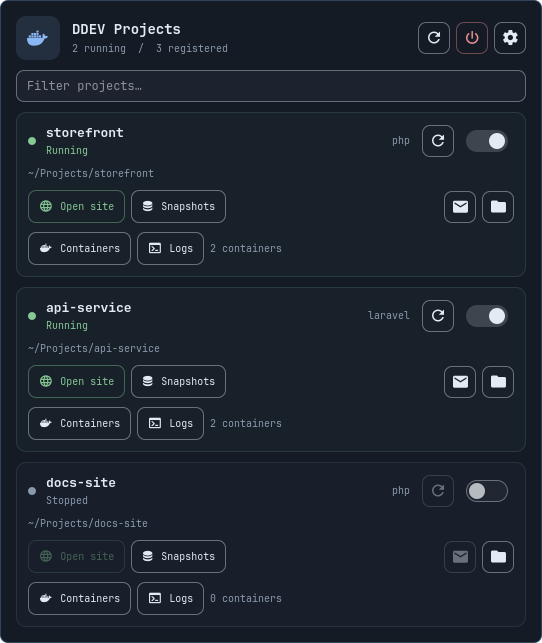
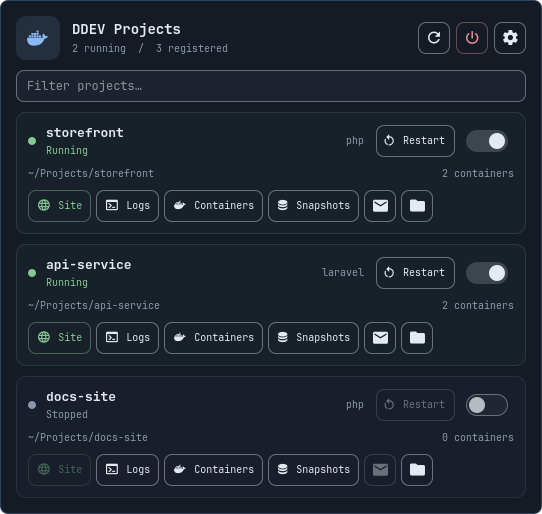
Clarify Restart and align project actions on one row

diff --git a/Panel.qml b/Panel.qml
@@ -614,14 +614,15 @@ Panel {
                                 }
                                 Label { text: projectRow.modelData.type; color: root.muted; font.pixelSize: Style.font.caption }
                                 }
-                                IconAction {
+                                ToolbarAction {
                                     id: restartProject
                                     objectName: "restartProject-" + projectRow.modelData.name
                                     anchors.right: powerSwitch.left
                                     anchors.rightMargin: Style.space(6)
                                     anchors.verticalCenter: parent.verticalCenter
-                                    iconText: ""
-                                    tooltipText: projectRow.running ? "Restart project" : "Start the project before restarting"
+                                    iconText: ""
+                                    text: "Restart"
+                                    tooltipText: projectRow.hasPaused ? "Resume containers before restarting" : projectRow.running ? "Restart project" : "Start the project before restarting"
                                     enabled: !projectRow.busy && projectRow.running && !projectRow.hasPaused
                                     onClicked: root.execute("restart", projectRow.modelData.name, "")
                                 }
@@ -642,37 +643,58 @@ Panel {
                                     PanelToolTip { visible: parent.containsMouse; text: projectRow.running ? "Stop project" : "Start project" }
                                 }
                             }
-                            Label { width: parent.width; text: projectRow.modelData.shortroot || projectRow.modelData.approot; elide: Text.ElideMiddle; color: root.muted; font.pixelSize: Style.font.caption }
                             RowLayout {
                                 width: parent.width
-                                spacing: Style.space(6)
-                                Action { text: "Open site"; iconText: ""; foreground: root.success; enabled: !projectRow.busy && projectRow.running; onClicked: root.execute("browse", projectRow.modelData.name, "") }
-                                Action { text: "Snapshots"; iconText: ""; selected: root.selectedName === projectRow.modelData.name; enabled: !projectRow.busy; onClicked: root.selectProject(projectRow.modelData.name) }
-                                Item { Layout.fillWidth: true }
-                                IconAction { iconText: ""; tooltipText: "Open Mailpit"; enabled: !projectRow.busy && projectRow.running; onClicked: root.execute("mailpit", projectRow.modelData.name, "") }
-                                IconAction { iconText: ""; tooltipText: "Open project folder"; enabled: !projectRow.busy; onClicked: root.execute("folder", projectRow.modelData.name, "") }
+                                spacing: Style.space(10)
+                                Label { Layout.fillWidth: true; elide: Text.ElideMiddle; text: projectRow.modelData.shortroot || projectRow.modelData.approot; color: root.muted; font.pixelSize: Style.font.caption }
+                                Label { text: projectRow.serviceContainers.length + " containers"; color: root.muted; font.pixelSize: Style.font.caption }
                             }
                             RowLayout {
+                                objectName: "projectActions-" + projectRow.modelData.name
                                 width: parent.width
-                                spacing: Style.space(6)
-                                Action {
-                                    text: "Containers"; iconText: ""
-                                    selected: root.applicationProject === projectRow.modelData.name
-                                    onClicked: root.showApplications(projectRow.modelData.name)
+                                spacing: Style.space(5)
+                                ToolbarAction {
+                                    objectName: "openProjectSite-" + projectRow.modelData.name
+                                    text: "Site"; iconText: ""; foreground: root.success
+                                    tooltipText: "Open project site"
+                                    enabled: !projectRow.busy && projectRow.running
+                                    onClicked: root.execute("browse", projectRow.modelData.name, "")
                                 }
-                                Action {
+                                ToolbarAction {
                                     objectName: "openProjectLogs-" + projectRow.modelData.name
                                     text: "Logs"; iconText: ""
                                     selected: !!root.logFor(projectRow.modelData.name).open
-                                    enabled: true
                                     tooltipText: root.logFor(projectRow.modelData.name).open ? "Close project logs" : "Open project logs"
                                     onClicked: root.toggleLog(projectRow.modelData.name)
                                 }
-                                Label {
-                                    Layout.fillWidth: true; elide: Text.ElideRight
-                                    text: projectRow.serviceContainers.length + " containers"
-                                    color: root.muted; font.pixelSize: Style.font.caption
+                                ToolbarAction {
+                                    objectName: "showProjectContainers-" + projectRow.modelData.name
+                                    text: "Containers"; iconText: ""
+                                    selected: root.applicationProject === projectRow.modelData.name
+                                    tooltipText: "Container overview and live statistics"
+                                    onClicked: root.showApplications(projectRow.modelData.name)
                                 }
+                                ToolbarAction {
+                                    objectName: "showProjectSnapshots-" + projectRow.modelData.name
+                                    text: "Snapshots"; iconText: ""
+                                    selected: root.selectedName === projectRow.modelData.name
+                                    tooltipText: "Database snapshots"
+                                    enabled: !projectRow.busy
+                                    onClicked: root.selectProject(projectRow.modelData.name)
+                                }
+                                IconAction {
+                                    objectName: "openProjectMailpit-" + projectRow.modelData.name
+                                    iconText: ""; tooltipText: "Open Mailpit"
+                                    enabled: !projectRow.busy && projectRow.running
+                                    onClicked: root.execute("mailpit", projectRow.modelData.name, "")
+                                }
+                                IconAction {
+                                    objectName: "openProjectFolder-" + projectRow.modelData.name
+                                    iconText: ""; tooltipText: "Open project folder"
+                                    enabled: !projectRow.busy
+                                    onClicked: root.execute("folder", projectRow.modelData.name, "")
+                                }
+                                Item { Layout.fillWidth: true }
                             }
                             Column {
                                 objectName: "applications-" + projectRow.modelData.name
@@ -913,6 +935,14 @@ Panel {
         font.pixelSize: Style.font.body
     }
     component Action: Button { focusable: true; bordered: true; fontSize: Style.font.caption; opacity: enabled ? 1 : 0.4 }
+    component ToolbarAction: Action {
+        implicitHeight: Style.space(32)
+        Layout.minimumWidth: implicitWidth
+        Layout.alignment: Qt.AlignVCenter
+        horizontalPadding: Style.space(8)
+        verticalPadding: 0
+        iconSize: Style.space(14)
+    }
     component IconAction: Action {
         implicitWidth: Style.space(32)
         implicitHeight: Style.space(32)

diff --git a/tests/features.qml b/tests/features.qml
@@ -17,6 +17,19 @@ ShellRoot {
         interval: 400; running: true
         onTriggered: {
             var root = plugin.item
+            var toolbar = root.testFind("projectActions-demo")
+            var actionNames = ["openProjectSite-demo", "openProjectLogs-demo", "showProjectContainers-demo", "showProjectSnapshots-demo", "openProjectMailpit-demo", "openProjectFolder-demo"]
+            var right = -1
+            var top = -1
+            for (var a = 0; a < actionNames.length; a++) {
+                var button = root.testFind(actionNames[a])
+                var point = button.mapToItem(toolbar, 0, 0)
+                if (a === 0) top = point.y
+                test.check(Math.abs(point.y - top) < 1 && point.x >= right && point.x + button.width <= toolbar.width + 1, "PROJECT_ACTION_ALIGNED_" + a)
+                right = point.x + button.width
+            }
+            var restart = root.testFind("restartProject-demo")
+            test.check(restart.text === "Restart" && restart.iconText !== root.testFind("refreshProjectsButton").iconText, "RESTART_DISTINCT_FROM_REFRESH")
             root.applyInventory(test.inventory("running", "healthy"), true)
             root.flushAlerts()
             test.check(root.testAlerts.length === 0, "NO_INITIAL_INVENTORY_ALERTS")

diff --git a/README.md b/README.md
@@ -20,7 +20,8 @@ Native Quickshell taskbar plugin. Click the Docker icon and running/registered c
 Previews render the actual plugin interface with fictional projects, paths, snapshots, and console output.
 
 - Lists every project returned by `ddev list -j`, with live status every 15 seconds.
-- Sliding start/stop switches, colored project status cards, Restart beside each power switch (enabled only for running projects), and icon shortcuts for browse, Mailpit, and the project folder.
+- Sliding start/stop switches, colored project status cards, a distinct, labelled Restart control beside each power switch (enabled only for running projects), and icon shortcuts for browse, Mailpit, and the project folder.
+- Project actions share one left-aligned row: Site, Logs, Containers, Snapshots, Mailpit, and Folder.
 - Filter by project name or path.
 - Compact container overview with health, CPU and memory; additional metrics on hover.
 - Pause/resume individual container processes, with controls scoped to registered DDEV projects.
